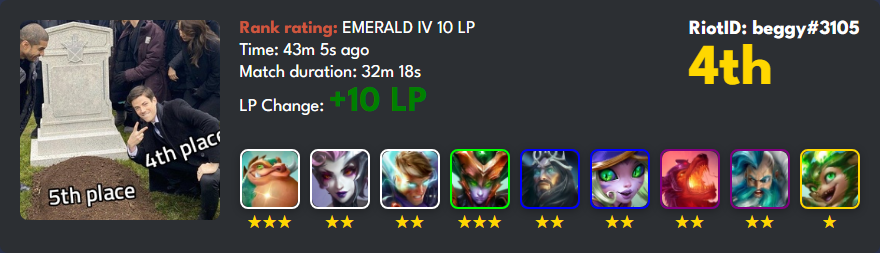
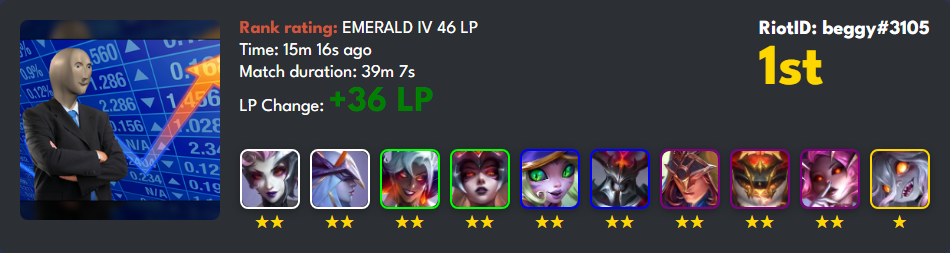
update_lp_cal

diff --git a/main.py b/main.py
@@ -157,24 +157,17 @@ def create_match_summary(profile_data, shcedule_run=False):
     )
 
     # Extract LP from player_rating and ranking text
-    player_rating_text = latest_match.get("summary", {}).get("player_rating", "")
-    ranked_rating_text = ranked.get("rating_text", "")
+    # player_rating_text = latest_match.get("summary", {}).get("player_rating", "")
+    # ranked_rating_text = ranked.get("rating_text", "")
 
-    # Extract LP numbers using regex
-    match_lp = (
-        int(re.search(r"(\d+) LP", player_rating_text).group(1))
-        if player_rating_text
-        else 0
-    )
-    current_lp = (
-        int(re.search(r"(\d+) LP", ranked_rating_text).group(1))
-        if ranked_rating_text
-        else 0
-    )
+    player_rating_text = latest_match.get("summary", {}).get("player_rating_numeric", "")
+    ranked_rating_text = ranked.get("rating_numeric", "")
 
-    # Calculate LP difference
-    lp_difference = current_lp - match_lp
 
+    try:
+        lp_difference = int(ranked_rating_text) - int(player_rating_text)
+    except:
+        lp_difference = 0
     # Get the meme URL based on placement
     meme_image = get_meme_url_by_placement(latest_match.get("placement", 9))
 
@@ -716,10 +709,10 @@ def create_match_summary(profile_data, shcedule_run=False):
 
 if __name__ == "__main__":
     # Place any testing or standalone code here
-    riot_id = "beggy"
-    tag = "3105"
+    riot_id = "Mawinner"
+    tag = "1402"
     profile_data = get_tft_profile(riot_id, tag)
 
-    create_match_summary(profile_data)
+    create_match_summary(profile_data,True)
 
     # create_match_summary(profile_data, True)
